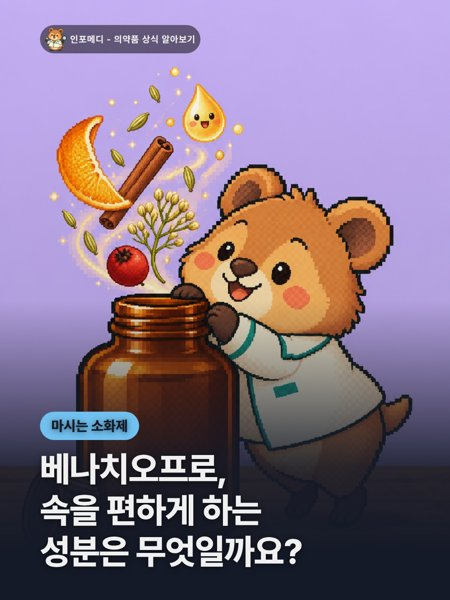
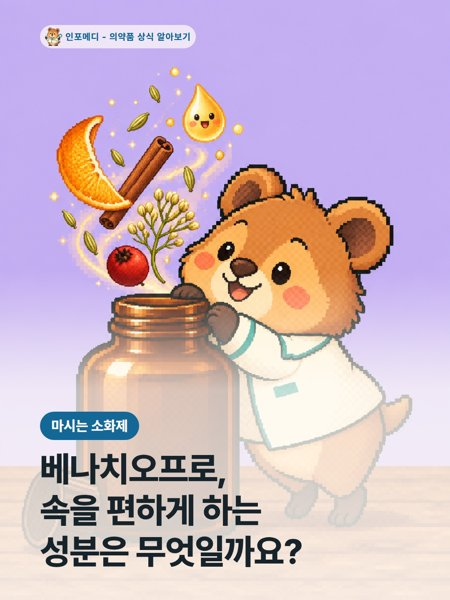
links

diff --git a/index.html b/index.html
@@ -36,7 +36,7 @@
 <div class="grid" id="list">
 <a class="item" href="https://blog.naver.com/info_medi_/224426529924"><img src="c/지르텍.jpg" alt="" loading="lazy">
 <span><b>지르텍, 두드러기에도 먹는 약일까요?</b><small><time datetime="2026-10-08 12:26"></time></small></span></a>
-<a class="item" href="https://blog.naver.com/info_medi_/224426523048"><img src="c/베나치오프로-white.jpg" alt="" loading="lazy">
+<a class="item" href="https://blog.naver.com/info_medi_/224426523048"><img src="c/베나치오프로.jpg" alt="" loading="lazy">
 <span><b>베나치오프로, 속을 편하게 하는 성분은 무엇일까요?</b><small><time datetime="2026-10-08 07:49"></time></small></span></a>
 <a class="item" href="https://blog.naver.com/info_medi_/224426521884"><img src="c/클라리틴정.jpg" alt="" loading="lazy">
 <span><b>클라리틴정, 먹고 나면 많이 졸릴까요?</b><small><time datetime="2026-10-07 18:21"></time></small></span></a>
